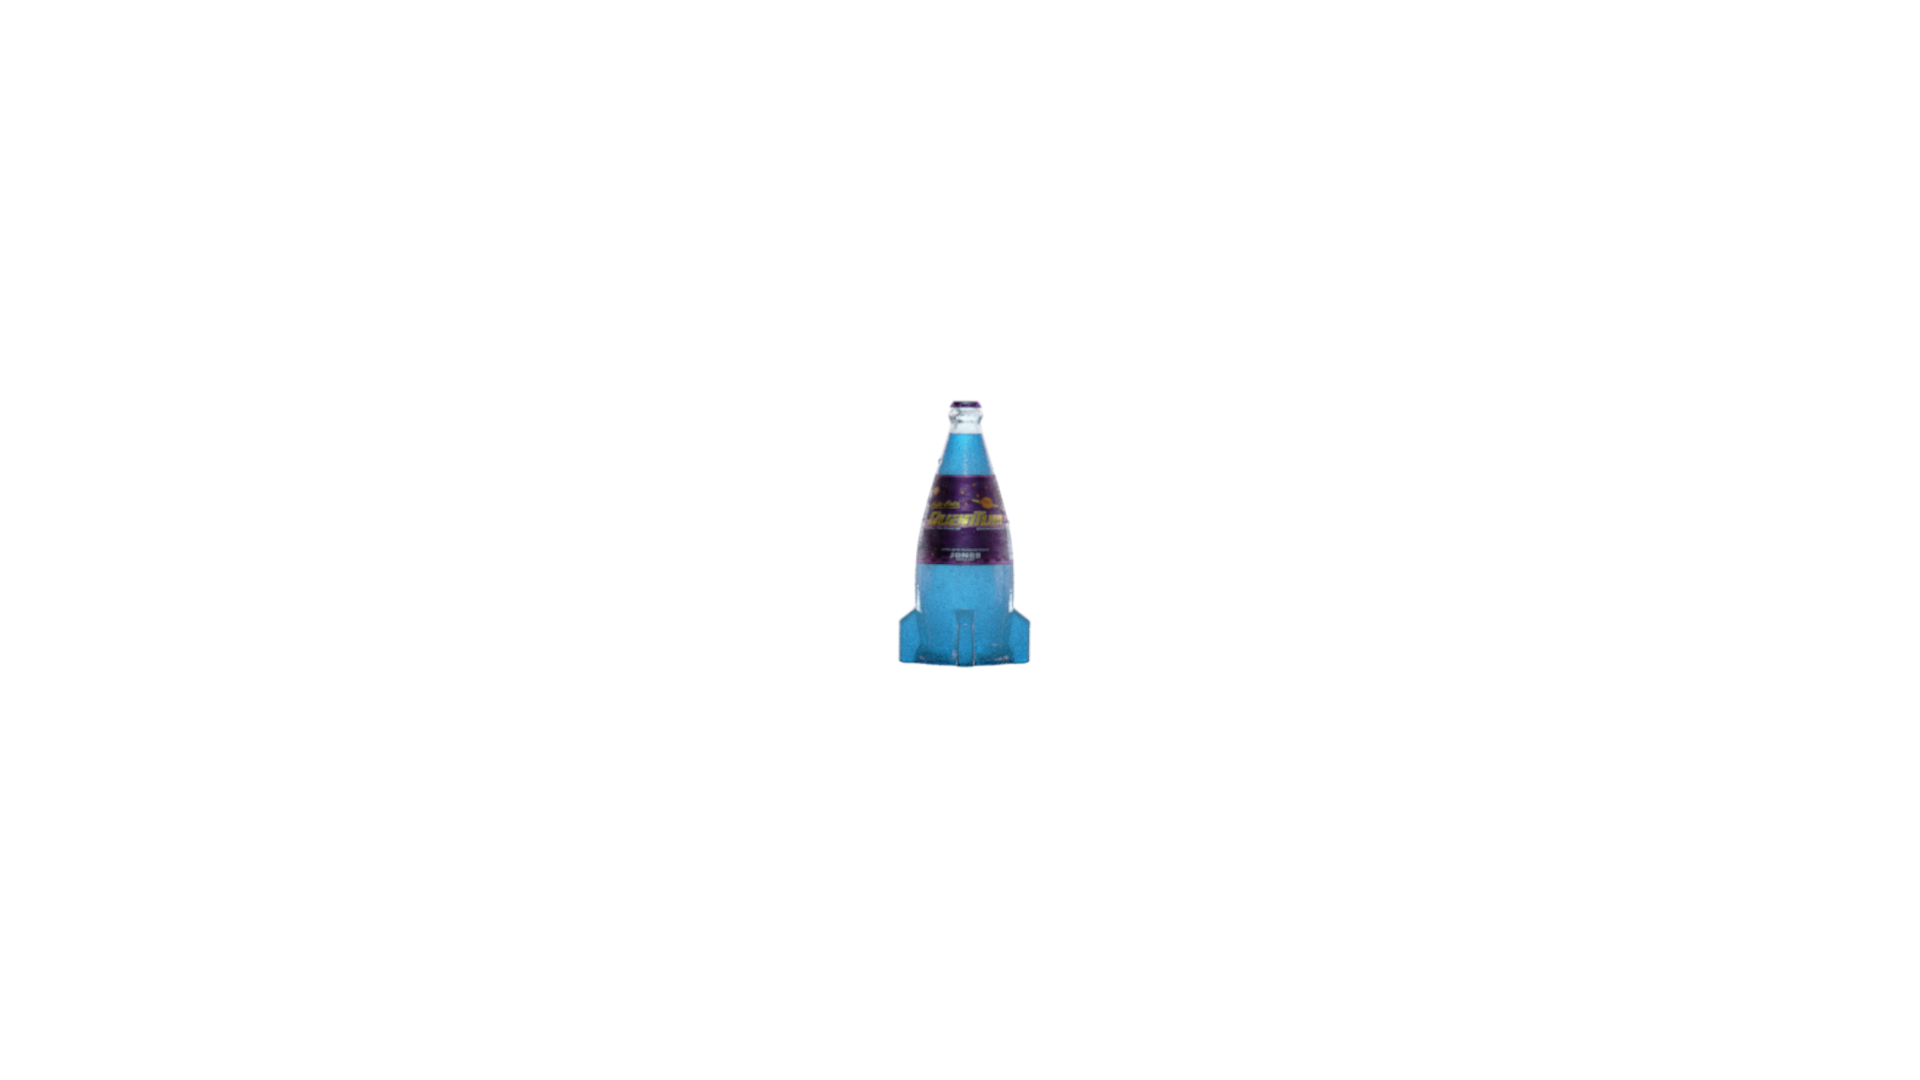
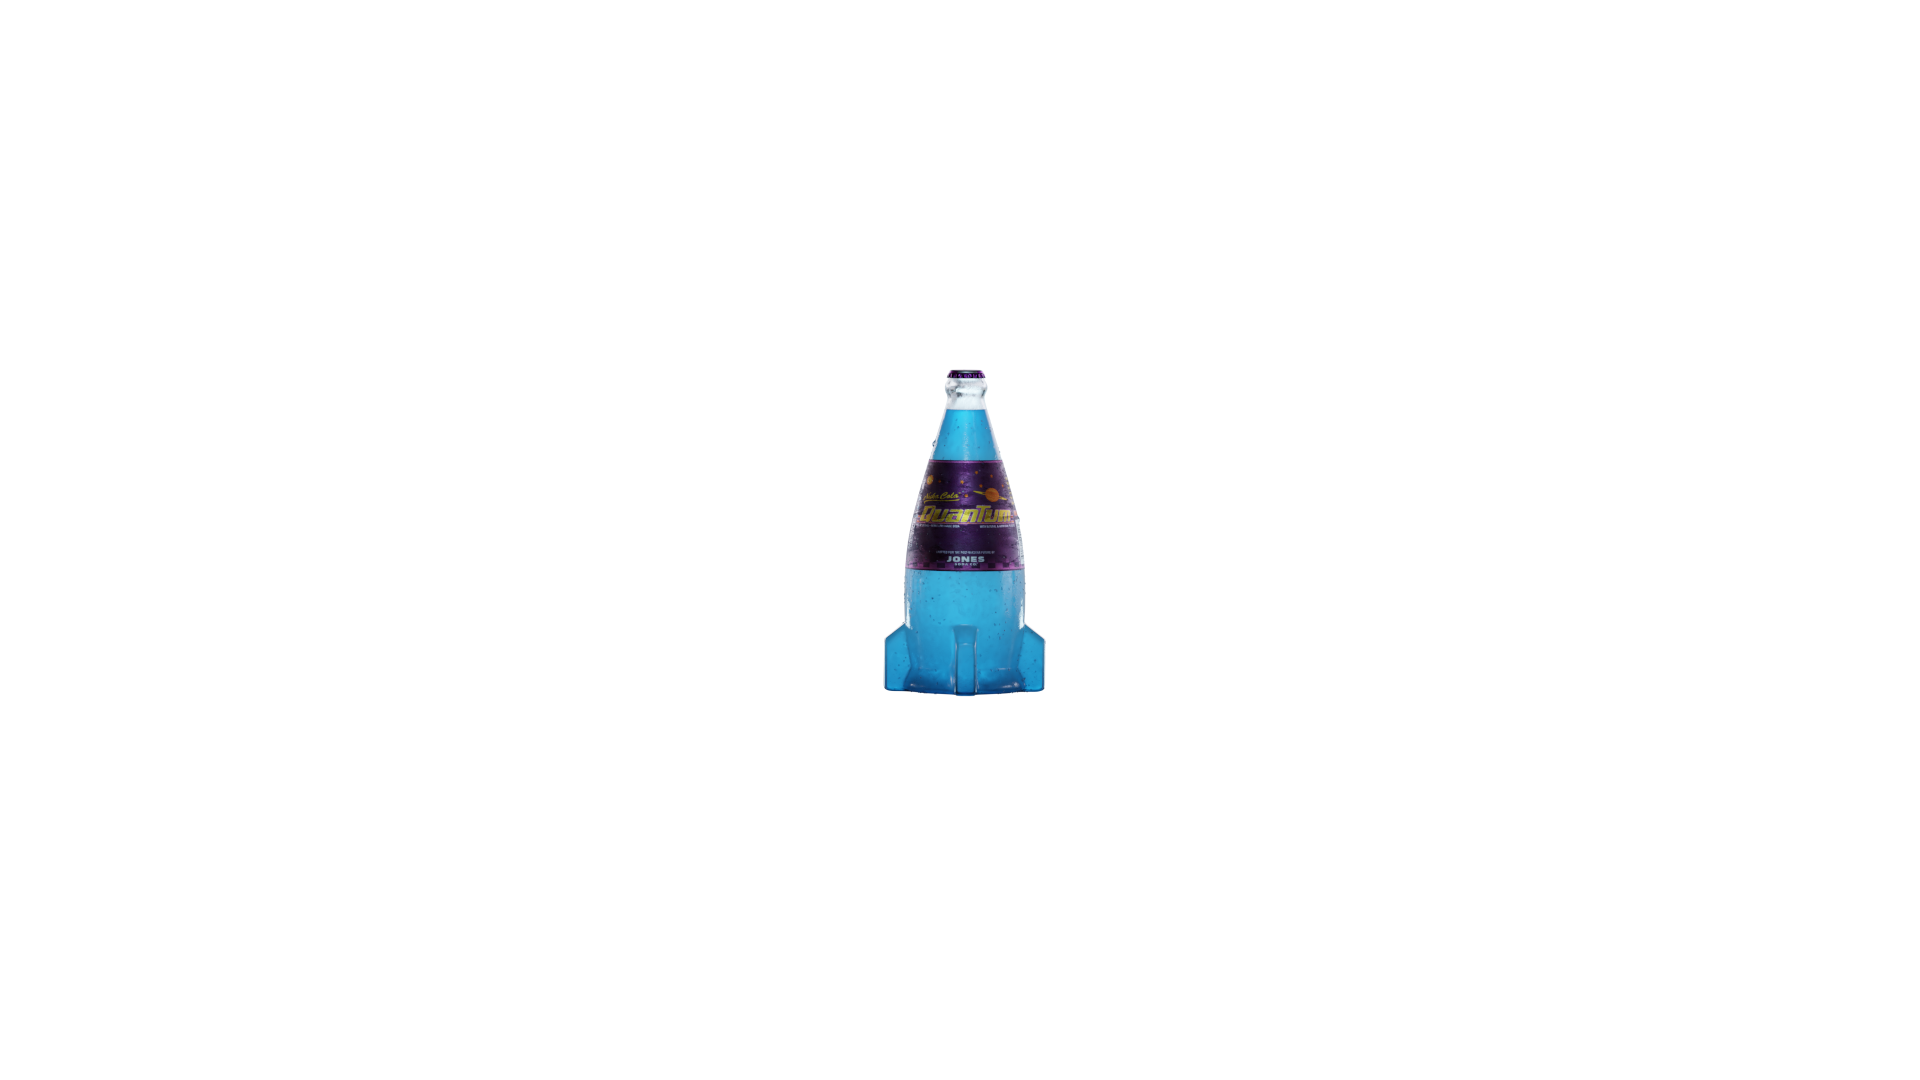
Nuka Quantum image quality enhanced and footer added.

Changed region(s): [[0.4375, 0.3361, 0.5625, 0.6417]]

diff --git a/index.html b/index.html
@@ -18,7 +18,6 @@
                 <li><a href="#">Home</a></li>
                 <li><a href="#shop">Shop</a></li>
                 <li><a href="#about">About</a></li>
-                <li><a href="#">Clients</a></li>
             </ul>
         </nav>
         <img id="bg" class="anim-brightness" src="public/images/bg.png" alt="">
@@ -67,8 +66,8 @@
                     <div class="content-box">
                         <h2>Grape</h2>
                         <div class="stats">
-                            <span class="title">Charisma:</span> <span>+5pts</span><br>   
-                            <span class="title">Strength:</span> <span>+10pts</span><br>   
+                            <span class="title">Charisma:</span> <span>+11%</span><br>   
+                            <span class="title">Strength:</span> <span>+55pts</span><br>   
                         </div>
                         <div class="actions">
                             <a class="btn" href="#">Buy</a>
@@ -83,8 +82,8 @@
                     <div class="content-box">
                         <h2>Wild</h2>
                         <div class="stats">
-                            <span class="title">Low-light vision:</span> <span>+15%</span><br>   
-                            <span class="title">Speech:</span> <span>+5pts</span><br>   
+                            <span class="title">Intelligence:</span> <span>+5%</span><br>   
+                            <span class="title">Sneak:</span> <span>+50pts</span><br>   
                         </div>
                         <div class="actions">
                             <a class="btn" href="#">Buy</a>
@@ -108,6 +107,12 @@
             </div>
         </div>
     </section>
+    <footer>
+        <img src="public/images/nuka-logo.png" alt="" width="75px">
+        <p>
+            © 2044 The Nuka Cola Company, all rights reserved. COCA-COLA®, "FROM FAR BEYOND", and the Contour Bottle are trademarks of The Nuka Cola Company.
+        </p>
+    </footer>
 </body>
 <script>
     function clamp(val, min, max){

diff --git a/public/style/style.css b/public/style/style.css
@@ -18,6 +18,20 @@ body{
     font-size: 1.2em;
 }
 
+footer{
+    display: flex;
+    justify-content: center;
+    align-items: center;
+    padding: 0px 30px;
+    background: #2a2a2a ;
+}
+
+footer p{
+    font-size: 0.65em;
+    padding: 50px;
+    color: #e4e4e4;
+}
+
 .container{
     width: 80%;
 }
@@ -96,6 +110,7 @@ a {
     min-height: 600px;
     align-items: center;
     justify-content: center;
+    padding-bottom: 30px;
 }
 
 #about .container{
@@ -109,7 +124,7 @@ a {
 
 
 #about p{
-    max-width: 75%;
+    width: 75%;
     text-align: justify;
 }
 
@@ -152,6 +167,14 @@ a {
         justify-content: center;
         text-align: center;
         padding: 0px 10px ;
+    }
+
+    footer img{
+        display: none;
+    }
+    footer p{
+        text-align: center;
+        padding: 50px 0px;
     }
 }
 
@@ -407,7 +430,7 @@ a {
     margin-bottom: 50px;
 }
 .cards-bx .card{
-    margin: 10px 30px;
+    margin: 10px 17px;
     position: relative;
     width: 320px;
     height: 450px;
